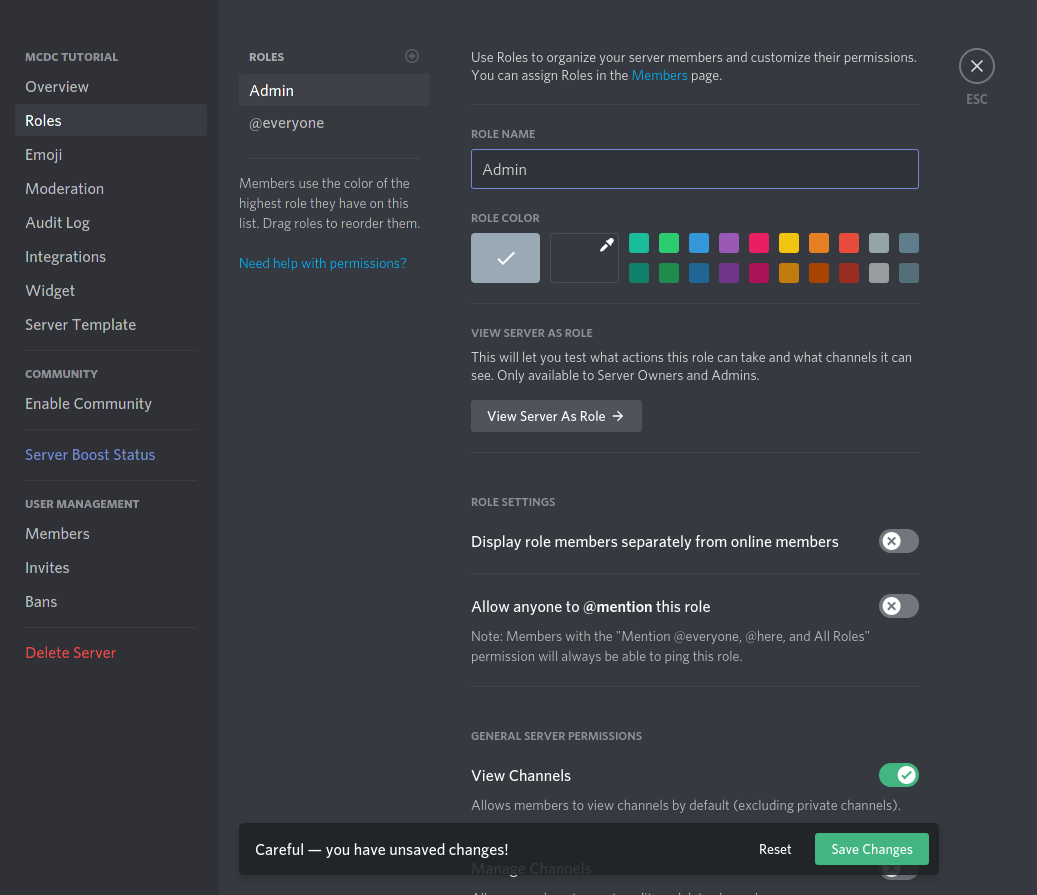
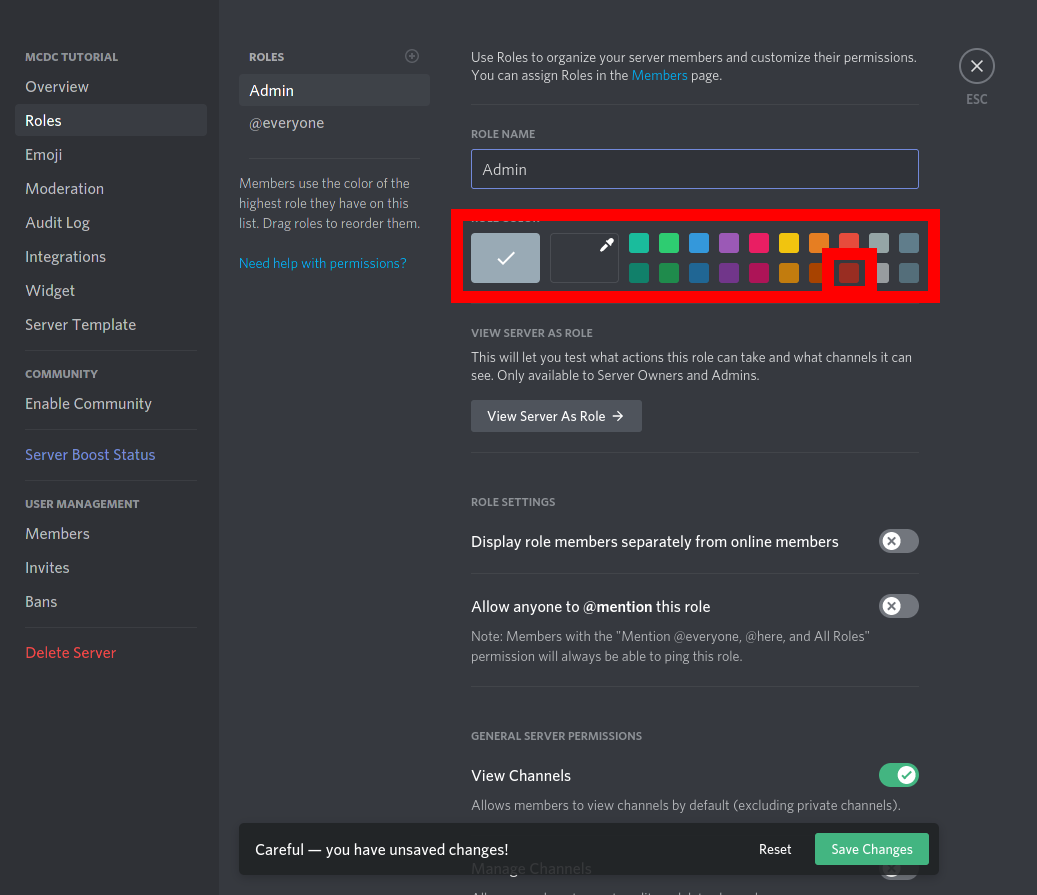
➕ Added instructions on how to create an admin role, as referenced in the embed, added in 56e54cc8b64379891f04faccee841b4398f06324 and refenreced in issue #29.

Changed region(s): [[0.432, 0.2112, 0.9257, 0.362]]

diff --git a/create-admin-role.md b/create-admin-role.md
@@ -1,0 +1,34 @@
+# Creating an admin role
+## Requirements
+You need to have the permission to manage the server or to manage server roles, so you can grant the bot the 
+required permissions.
+
+## Steps on how to create the role
+1. On the main page, select the server you want to add the role to and then click on the Server name in the top left corner. <br>
+![Open Server context menu](./assets/role-creation/1.png) <br>
+2. In the context menu, select `Server Settings`. <br>
+![Open the Server Settings](./assets/role-creation/2.png) <br>
+3. In the left side bar, select the roles tab. <br>
+![Select the roles Tab](./assets/role-creation/3.png) <br>
+4. Create a new Role by clicking on the small Plus sign. It says `Create Role`, when you hover over it. <br>
+![Create a new Role](./assets/role-creation/4.png) <br>
+5. Give the role a name, for example `Admin`. <br>
+![Give the Role a name](./assets/role-creation/5.png) <br>
+6. Select a color, by clicking on one of the colored tiles or create a "custom one" by clicking the blank tile and then selecting the color. <br>
+![Select a color](./assets/role-creation/6.png) <br>
+7. Scroll down until you reach the bottom. <br>
+![Scroll down](./assets/role-creation/7.png) <br>
+8. On the far bottom, click the slider in the section `Administrator` until it is green. <br>
+![Enable Administrator priviledges](./assets/role-creation/8.png) <br>
+9. Save your changes, by clicking on the green button on the bottom, called `Save Changes`. <br>
+![Save your changes](./assets/role-creation/9.png) <br>
+10. Exit the Settings menu, by hitting the escape key on your keyboard or clicking the `X` in the top right corner. <br>
+![Exit the Settings Menu](./assets/role-creation/10.png) <br>
+11. Open the context menu of a user, by clicking with the left mouse button on the user you want to give the role to. In this case, the Bot. <br>
+![Open the User Menu](./assets/role-creation/11.png) <br>
+12. Add the newly created Role to the user by clicking on the small plus button. <br>
+![Add the Role part 1](./assets/role-creation/12.png) <br>
+13. In the list, select the newly created role, by clicking on it. <br>
+![Select the role from drop down list](assets/role-creation/13.png) <br>
+14. Your now Role should now appear in the list of the roles of the user. <br>
+![Finished](assets/role-creation/14.png)
